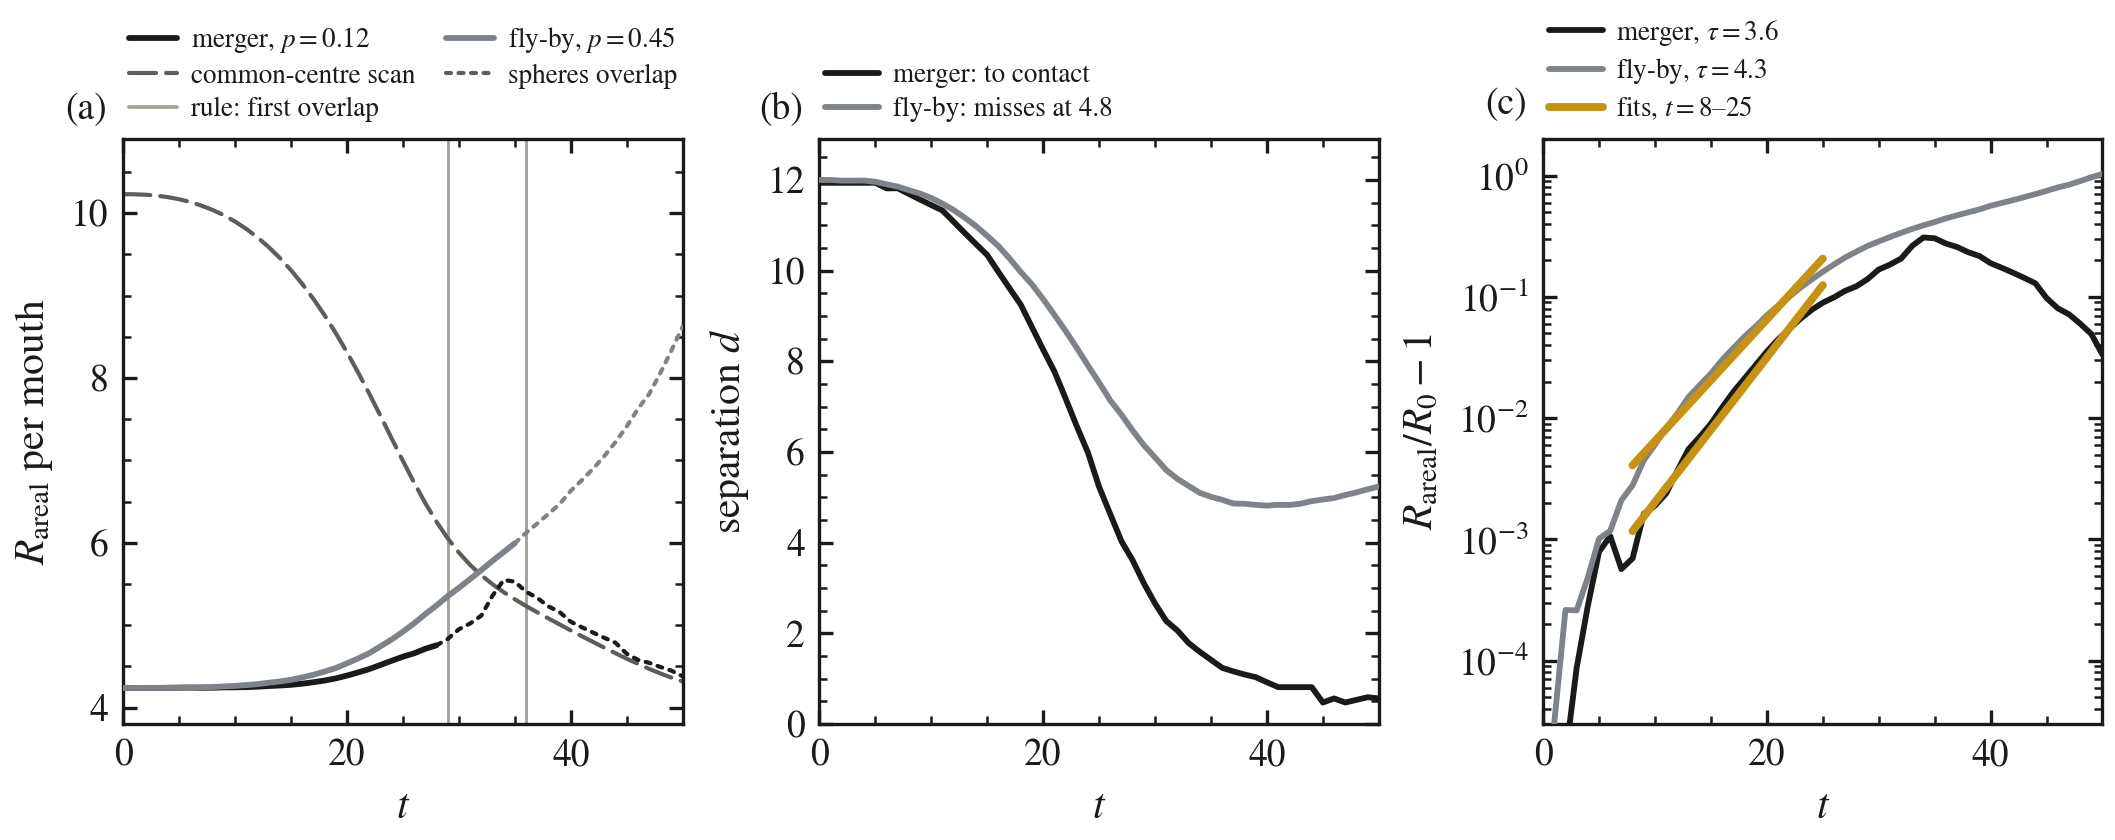
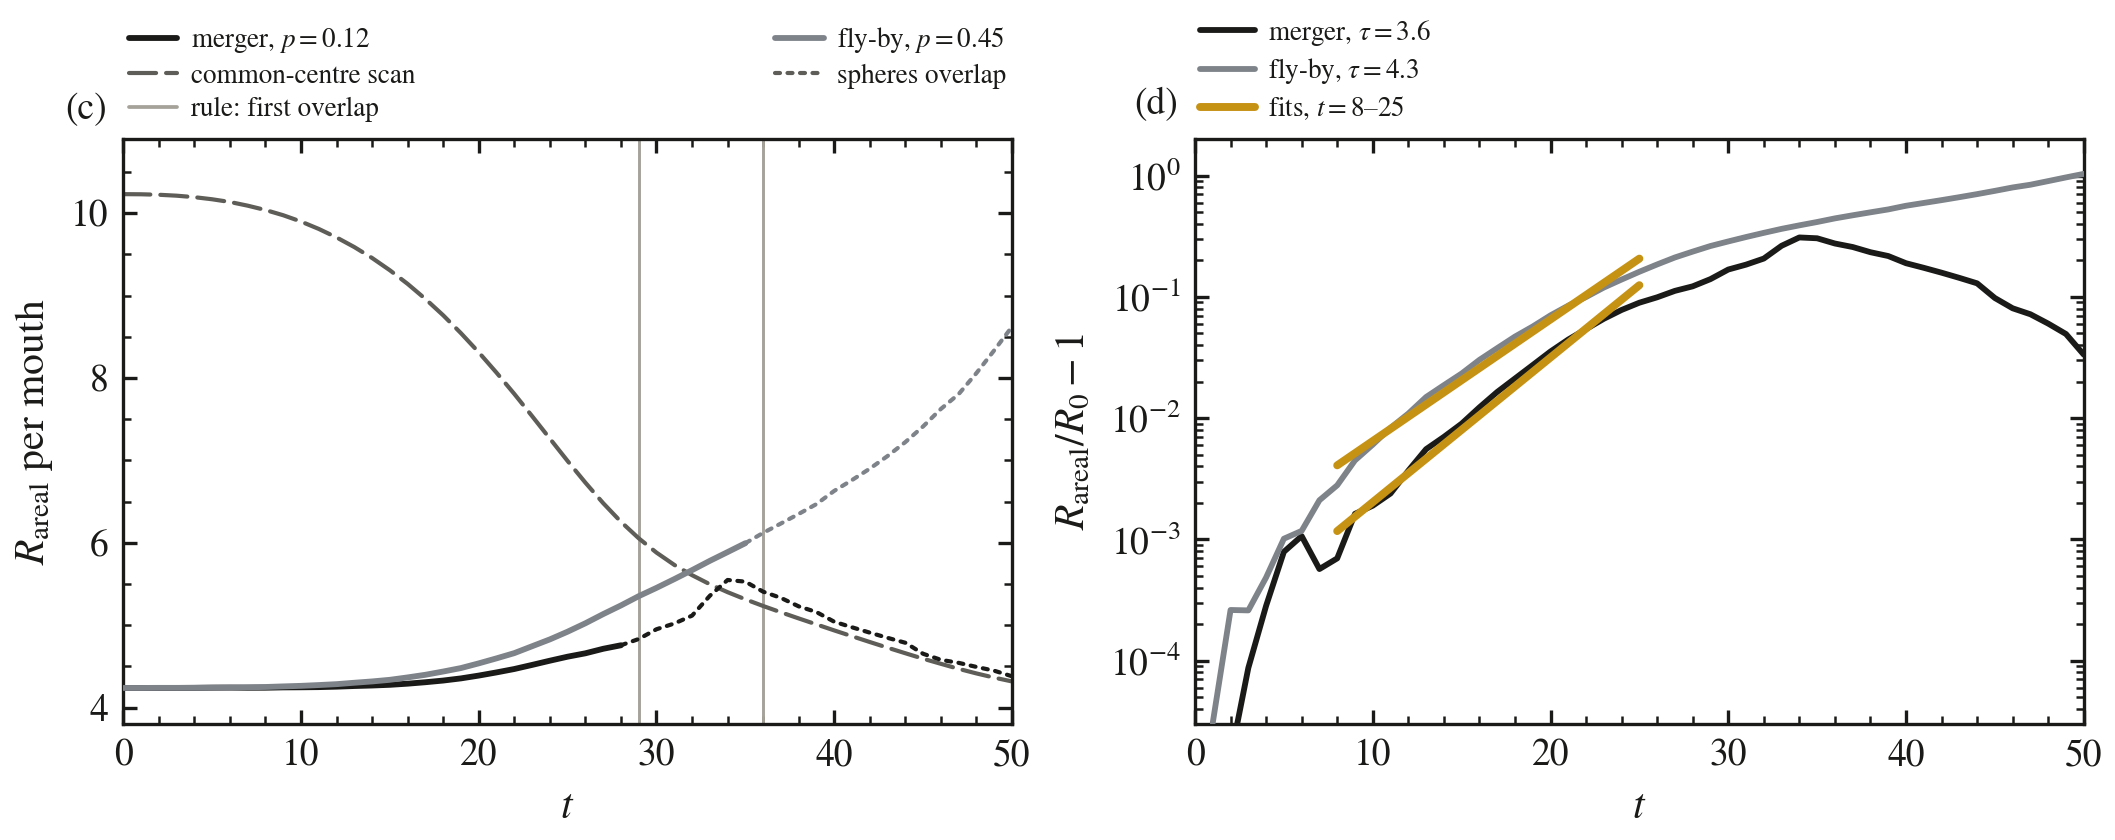
paper(merger): fig 11 letters run a-d; appendix floats pack as pages
The merged orbits + mouth-growth float read (a)(b)(a)(b)(c): the
mouth strip's separation panel duplicated the orbit strip's, so it is
gone from the figure (plot_mouth_growth draws two panels now, audit
clean) and its caption sentence with it; the remaining mouth panels
reletter to (c) and (d), continuing the top strip.  The body cites
both labels without panel letters and fig:orbits(a) keeps its letter,
so every citation stays correct.  The five appendix floats move from
[t] to [p]: \packfloatpages stacks float pages from the top, so two
floats share a page instead of one per page.  Three ledger anchors in
the deleted sentence dropped (each macro keeps its other anchors);
check 1075 rows, 0 problems.

Claude-Session: https://claude.ai/code/session_01AwidYkPGK2W8N2DpZiACbB

diff --git a/research/merger/article/research.tex b/research/merger/article/research.tex
@@ -635,14 +635,14 @@ and \texttt{GRTeclyn}.
 
 This appendix collects the checks that the evolutions are numerically sound, so that the main-text figures show physics only. Figure~\ref{fig:constraints} gives the constraint record of every run drawn in Figs.~\ref{fig:single_throat}, \ref{fig:single_collapse}, \ref{fig:single_inflation}, \ref{fig:headon_collapse} and~\ref{fig:spiral_collapse}, each at the highest refinement level it was run at. Figure~\ref{fig:spiral_ladder} shows the spiral's interior failure under refinement, gauge and start time (Sec.~\ref{sec:spiral:wall}).
 
-\begin{figure*}[t]
+\begin{figure*}[p]
 \centering
 \includegraphics[width=0.80\textwidth]{00_code_health/constraint_evolution.pdf}
 \caption{Constraint evolution of every run the main-text figures draw, each at the highest refinement level it was run at (named in each panel's key): $L^2$ norms of the Hamiltonian ($\mathcal{H}$, ink) and momentum ($\mathcal{M}$, grey dashed) constraints. The norms are box averages on the base grid ($\Delta x=\clmDxBase$; $\clmFourDxBase$ on the octant of (d)) and compare only within one box (Sec.~\ref{sec:setup:diagnostics}). (a),(b)~The lone throat of Fig.~\ref{fig:single_throat}: level 4 for the unkicked throat and $\varepsilon=\pm10^{-2}$ ($+10^{-2}$ stopped by hand at $t=13.5$, dot), level 3 for $\pm10^{-3}$ and $\pm0.1$, the only level these were run at (dash = sign, weight = amplitude, grey = no kick, crosses = deaths). The base grid does not resolve the seed's shell: at $t=0$ the norms carry the exact data's discretisation floor, to which a kick adds its own defect in quadrature, $\clmSeedDefectBox\,|\varepsilon|$ ($\clmHamZeroLo$--$\clmHamZeroHi$ for $|\varepsilon|\le10^{-2}$), although on the shell it reaches $\clmSeedDefectPeak\times16\pi|\rho|$ at $10^{-2}$ (Sec.~\ref{sec:model:seeds}). $\mathcal{M}$ vanishes at $t=0$ and is fed by that defect within the first steps, in proportion to $\varepsilon$ ($\clmMomKickTwo$ at $10^{-2}$, $\clmMomKickThree$ at $10^{-3}$, at $t=0.5$, against $\clmMomUnkicked$ unkicked). At level 3 the $|\varepsilon|\le10^{-2}$ arms then follow the unkicked norms to $\clmKickNormSpread\%$ until the fates part---a bound on the box average, not on the violation near the throat (Sec.~\ref{sec:single:collapse}); $\varepsilon=\pm0.1$ starts $\clmCeilingHamLo$--$\clmCeilingHamHi\times$ high and dies at $t=\clmCeilingDeathPlus$ ($+0.1$) and $\clmCeilingDeathMinus$ ($-0.1$) in a one-step overflow at the compactified origin. (c)~The pure-quadrupole collapse of Fig.~\ref{fig:single_collapse} (level 4; gold, its MOTS from $t=\clmPureQuadMotsTime$). The rise from $t\gtrsim\clmLateConstraintLo$ is a grid mode, neither this collapse nor a reflection off the box face: it starts on the refinement boundaries, every single-throat arm that runs long enough shows it, collapsing or inflating, and the doubled box does not delay it: the norms leave their floor from $t\approx\clmConstraintFloorBothBoxes$ ($L=128$) and $\clmConstraintFloorSmallBox$ ($L=64$). (d)~The inflating throat of Fig.~\ref{fig:single_inflation} (finest $\Delta x=\clmFourFinestDx$ on the $L=\clmFourBoxL$ octant) to $t=\clmFourWall$. (e)~The head-on of Fig.~\ref{fig:headon_collapse}, $\mathcal{H}$ only: the level-5 arm stays below its value at formation (gold, $t=\clmHeadonMotsTime$) to $t=\clmHeadonLevelFiveEnd$, while the level-3 scout's norm leaves the frame at its failure ($t=\clmHeadonScoutDeath$, grey dashed); dashed, the level-3 down-step. (f)~The production spiral of Fig.~\ref{fig:spiral_collapse}: the level-5 leg to its NaN at $t=\clmSpiralDeath$ (cross), and the level-3 leg over their common window, which it reproduces to a median $\clmSpiralLevelMedianHam\%/\clmSpiralLevelMedianMom\%$; rules, the merger transient ($t=\clmSpiralTransientTime$) and $\chi$ on its floor ($t=\clmSpiralChiFloorTime$). At the NaN both norms sit below their transient peaks: the failure is not a constraint blow-up. (g)~The fly-by of Sec.~\ref{sec:spiral:capture} ($p=\clmSpiralMomentumFlyby$, level 5, $L=\clmBigBoxL$): $\mathcal{H}$ stays flat between thin early needles (isolated spikes, each gone within about a tenth of a time unit) until the mouths outgrow the scan window ($t\approx\clmFlybyScanEdgeTime$, first rule); both norms then grow by orders of magnitude to the end of the record, and nothing is quoted from the run after $t=\clmFlybyTrust$ (second rule).}
 \label{fig:constraints}
 \end{figure*}
 
-\begin{figure*}[t]
+\begin{figure*}[p]
 \centering
 \includegraphics[width=0.80\textwidth]{05_binary_spiral/spiral_refinement_ladder.pdf}
 \caption{Death time of the $p=\clmSpiralMomentumProd$ spiral under refinement, gauge and start time; every death is an $h_{11}$ NaN except in the $\partial_t\alpha=-\alpha K$ arm, which fails in $K$. (a)~Refinement from one $t=\clmLadderRestartTime$ state of the $L=64$ run, maximum level $\ell$ (finest cell $0.5/2^{\ell}$). Filled circles: no matter device, gain per doubling marked; open circles: core matter damping (levels 4--6 share one configuration); open diamond: level 5 at half the time step. (b)~The same failure under other gauges and start times, one row per gauge. The lapse obeys $\partial_t\alpha=-c\,\alpha^{p}(K-2\Theta)$ and the shift is damped at rate $\eta$; the standard gauge is $c=\clmGaugeLapseCoeff$, $p=\clmGaugeLapsePower$, $\eta=\clmShiftEta$, and each other row changes one of the three (and carries the core matter damping, worth under a unit; panel a). Filled circles: level 3 from $t=0$; open circles: level 5 from $t_0$ on $L=64$; open diamonds: level 5 on $L=128$. Level 3: $t=\clmGaugeHalvedDeath$, $\clmGaugeHarmonicDeath$, $\clmGaugeStandardDeath$, $\clmGaugeEtaDeath$. Level 5: standard gauge $\clmSpiralFromZeroDeath$ and $\clmSpiralDeath$ on $L=128$ ($t_0=0$, $\clmSpiralRestartTime$) and $\clmGaugeStandardLevelFiveDeath$ on $L=64$ ($t_0=\clmLadderRestartTime$); $\eta=\clmGaugeEta$, $\clmGaugeEtaLevelFiveDeath$ and $\clmGaugeEtaRestartSixtyDeath$ ($t_0=\clmGaugeEtaRestartTime$, $\clmGaugeEtaRestartSixty$).}
@@ -654,22 +654,22 @@ This appendix collects the checks that the evolutions are numerically sound, so 
 
 Five measurements support the main text without being needed to follow it: the momentum scan that separates merger from fly-by (Fig.~\ref{fig:orbits}; Sec.~\ref{sec:spiral:capture}), the growth of the merging and scattering binaries' mouths before contact (Fig.~\ref{fig:mouth_growth}; Sec.~\ref{sec:spiral:inspiral}), the linearity of the collapsing throat's wave in its quadrupole seed (Fig.~\ref{fig:seed_linearity}; Sec.~\ref{sec:single:gw}), the scalar channel's energy, multipoles and validity window on the $\Psi_4$ spheres (Fig.~\ref{fig:scalar_channel}; Sec.~\ref{sec:gw:scalar}), and the horizon's shut-off of that channel (Fig.~\ref{fig:scalar_censorship}; Sec.~\ref{sec:gw:censorship}).
 
-\begin{figure*}[t]
+\begin{figure*}[p]
 \centering
 \includegraphics[width=0.62\textwidth]{05_binary_spiral/momentum_scan_orbits.pdf}\\[4pt]
 \includegraphics[width=0.62\textwidth]{05_binary_spiral/mouth_growth.pdf}
-\caption{\emph{Top (orbits):} Merger or fly-by: the momentum scan from $d=\clmPairSeparation$ with opposite signs, from the head-on release ($p=0$) to the fly-by ($p=\clmSpiralMomentumFlyby$). (a)~Both throats in the orbital plane; (b)~their separation. The tracks are the coordinate positions of the $\chi$ pits, followed through each run. Grey, light to dark: the plunges $p=0$, $\clmSpiralMomentumProd$, $\clmSpiralMomentumFifteen$, $\clmSpiralMomentumTwenty$ and $\clmSpiralMomentumTwentyFive$, each drawn until $\chi$ first reaches its floor or the run ends (dots); gold: the fly-bys $p=\clmSpiralMomentumThirtyFive$ (dashed) and $\clmSpiralMomentumFlyby$. Every arm is level 3 except the $p=\clmSpiralMomentumFlyby$ fly-by, the level-5 arm of the text; since a level-3 pit sits on a cell of side $\clmFinestDx$, the tracks are averaged over two time units. The fly-by turns at closest approach, $\clmFlybyClosestApproach$ at $t\approx\clmFlybyClosestTime$; from $t\approx\clmFlybyScanEdgeTime$ its mouths have inflated past the scan window, and the faint stretch is the separation of the $\chi$ pits of two inflating mouths, not of two compact throats, and ends at $t=\clmFlybyTrust$, where the fly-by's trust window closes. \emph{Bottom (mouth growth):} Mouth growth in the merging ($p=\clmSpiralMomentumProd$) and scattering ($p=\clmSpiralMomentumFlyby$) arms, both from $d=12$ with the same throats; the merger's instrumented re-run carries three refinement levels and the fly-by five. (a)~Areal radius of one mouth (its twin agrees to $\clmMouthTwinAgreement$): solid while the two scan spheres are disjoint, dotted once they overlap; long dash, the common-centre scan. No trapped surface appears on these star-shaped scans, which end at $t=\clmMouthScanEnd$ (merger) and $t=\clmFlybyTrust$ (fly-by, its trust window). (b)~Separation: $p=\clmSpiralMomentumProd$ reaches contact, $p=\clmSpiralMomentumFlyby$ misses at $\clmFlybyClosestApproach$. (c)~Growth excess $R/R_0-1$ with exponential fits over $t=\clmMouthFitStart$--$\clmMouthFitEnd$ (gold): $\tau=\clmMouthTauMerger$ (merger) and $\clmMouthTauFlyby$ (fly-by), as read. The reading includes the companion's field; with it removed (Sec.~\ref{sec:spiral:inspiral}) the merger shows no growth of its own and the fly-by has $\tau=\clmMouthTauFlybyPlaced$.}
+\caption{\emph{Top (orbits):} Merger or fly-by: the momentum scan from $d=\clmPairSeparation$ with opposite signs, from the head-on release ($p=0$) to the fly-by ($p=\clmSpiralMomentumFlyby$). (a)~Both throats in the orbital plane; (b)~their separation. The tracks are the coordinate positions of the $\chi$ pits, followed through each run. Grey, light to dark: the plunges $p=0$, $\clmSpiralMomentumProd$, $\clmSpiralMomentumFifteen$, $\clmSpiralMomentumTwenty$ and $\clmSpiralMomentumTwentyFive$, each drawn until $\chi$ first reaches its floor or the run ends (dots); gold: the fly-bys $p=\clmSpiralMomentumThirtyFive$ (dashed) and $\clmSpiralMomentumFlyby$. Every arm is level 3 except the $p=\clmSpiralMomentumFlyby$ fly-by, the level-5 arm of the text; since a level-3 pit sits on a cell of side $\clmFinestDx$, the tracks are averaged over two time units. The fly-by turns at closest approach, $\clmFlybyClosestApproach$ at $t\approx\clmFlybyClosestTime$; from $t\approx\clmFlybyScanEdgeTime$ its mouths have inflated past the scan window, and the faint stretch is the separation of the $\chi$ pits of two inflating mouths, not of two compact throats, and ends at $t=\clmFlybyTrust$, where the fly-by's trust window closes. \emph{Bottom (mouth growth):} Mouth growth in the merging ($p=\clmSpiralMomentumProd$) and scattering ($p=\clmSpiralMomentumFlyby$) arms, both from $d=12$ with the same throats; the merger's instrumented re-run carries three refinement levels and the fly-by five. (c)~Areal radius of one mouth (its twin agrees to $\clmMouthTwinAgreement$): solid while the two scan spheres are disjoint, dotted once they overlap; long dash, the common-centre scan. No trapped surface appears on these star-shaped scans, which end at $t=\clmMouthScanEnd$ (merger) and $t=\clmFlybyTrust$ (fly-by, its trust window). (d)~Growth excess $R/R_0-1$ with exponential fits over $t=\clmMouthFitStart$--$\clmMouthFitEnd$ (gold): $\tau=\clmMouthTauMerger$ (merger) and $\clmMouthTauFlyby$ (fly-by), as read. The reading includes the companion's field; with it removed (Sec.~\ref{sec:spiral:inspiral}) the merger shows no growth of its own and the fly-by has $\tau=\clmMouthTauFlybyPlaced$.}
 \label{fig:orbits}\label{fig:mouth_growth}
 \end{figure*}
 
-\begin{figure*}[t]
+\begin{figure*}[p]
 \centering
 \includegraphics[width=0.80\textwidth]{01_single_throat/seed_linearity.pdf}
 \caption{Linearity of the collapsing throat's wave in its quadrupole seed. (a)~$\mathrm{Re}\,\Psi_4^{2,0}$ at $R=\clmGwSeedFigRadius$, each arm divided by its seed and named at its end: $\varepsilon_2=\clmGwSeedWeak$, $\clmGwSeedKicked$, $\clmGwSeedStrong$ and the kick-free $\clmGwSeedPure$ arm collapse onto one curve through the burst; later the smallest arm carries its floor amplified by $1/\varepsilon_2$ and the kick-free arm runs ahead. (b)~rms amplitude over $t=\clmGwSeedWindowLo$--$\clmGwSeedWindowHi$ against $\varepsilon_2$ at three spheres, with the slope-one line through the $\clmGwSeedKicked$ arm drawn across the decade $10^{-3}$--$10^{-1}$ as a reference. Open circle: the pure quadrupole, within $\clmGwPureVsKicked\%$ of the kicked arm. Dashed rule: the floor of the level-4 spherical control (the same kick, no quadrupole) at $R=\clmGwSeedFigRadius$, which the line crosses at $\varepsilon_2\approx\clmGwSeedFloorCross$. The outcome: the wave is the quadrupole's---linear in $\varepsilon_2$ and unchanged, to $\clmGwPureVsKicked\%$ in amplitude, when the radial kick is removed. The kick alone radiates only the floor; it moves the wave's phase, not its size.}
 \label{fig:seed_linearity}
 \end{figure*}
 
-\begin{figure*}[t]
+\begin{figure*}[p]
 \centering
 \includegraphics[width=0.62\textwidth]{08_waves/scalar_channel.pdf}\\[4pt]
 \includegraphics[width=0.62\textwidth]{08_waves/scalar_censorship.pdf}

diff --git a/grteclyn-wrapper/src/grteclyn_wrapper/visualisation/wormhole_merger/plot_mouth_growth.py b/grteclyn-wrapper/src/grteclyn_wrapper/visualisation/wormhole_merger/plot_mouth_growth.py
@@ -141,8 +141,8 @@ def main(argv: list[str] | None = None) -> int:
     tau_f, seed_f, ex_f = _tau(f)
 
     style.prd(base=10.0)
-    fig, (axA, axB, axC) = plt.subplots(
-        1, 3, figsize=(7.05, 2.8), sharex=True, constrained_layout=True)
+    fig, (axA, axC) = plt.subplots(
+        1, 2, figsize=(7.05, 2.8), sharex=True, constrained_layout=True)
     # each arm to the frame's end -- and the fly-by to its trust window
     arms = ((m, im, ex_m, style.INK, T_MAX), (f, jf, ex_f, style.CONTEXT, min(T_MAX, FLYBY_TRUST)))
 
@@ -172,17 +172,6 @@ def main(argv: list[str] | None = None) -> int:
     axA.set_ylim(R_FLOOR, 10.9)
     style.legend_top(axA, keyA, ncol=2, handlelength=1.8)
 
-    # ---- (b) and meanwhile, what the orbit did ----------------------------
-    keyB = []
-    for (s, _, _, col, t_end), name in zip(arms, ("merger: to contact",
-                                               f"fly-by: misses at {f['sep'].min():.1f}")):
-        k = s["t"] <= t_end + 1e-9
-        keyB.append((axB.plot(s["t"][k], s["sep"][k], color=col, linewidth=1.4,
-                              zorder=3)[0], name))
-    axB.set_ylabel(r"separation $d$")
-    axB.set_ylim(0.0, 12.9)
-    style.legend_top(axB, keyB, ncol=1)
-
     # ---- (c) the clock itself ---------------------------------------------
     # Each arm's key entry carries its fitted rate; both fits are gold (that is
     # what gold means here, "this is the fit"), keyed once.
@@ -203,10 +192,10 @@ def main(argv: list[str] | None = None) -> int:
     axC.set_xlim(0, T_MAX)
     axC.set_ylabel(r"$R_{\rm areal}/R_0 - 1$")
     style.legend_top(axC, keyC, ncol=1)
-    for ax in (axA, axB, axC):
+    for ax in (axA, axC):
         ax.set_xlabel(r"$t$")
 
-    style.tag_keys(fig, (axA, axB, axC), ("(a)", "(b)", "(c)"), row="last")
+    style.tag_keys(fig, (axA, axC), ("(c)", "(d)"), row="last")
 
     print(f"[mouth-growth] merger: R {m['RA'][0]:.4f} -> {m['RA'][im - 1]:.4f} "
           f"(+{100 * (m['RA'][im - 1] / m['RA'][0] - 1):.1f} %) by t = {m['t'][im - 1]:.0f}, "
